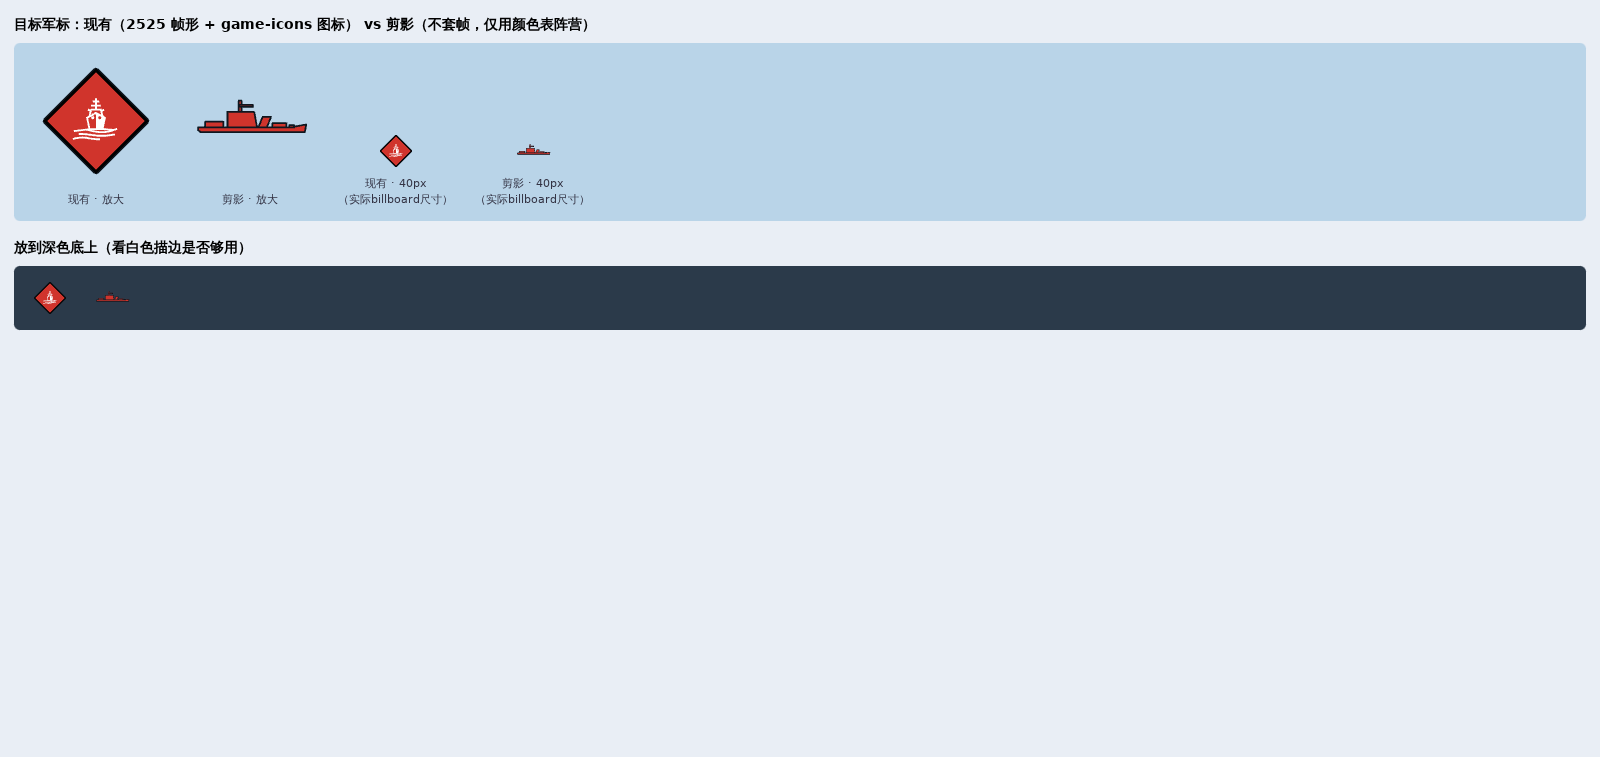
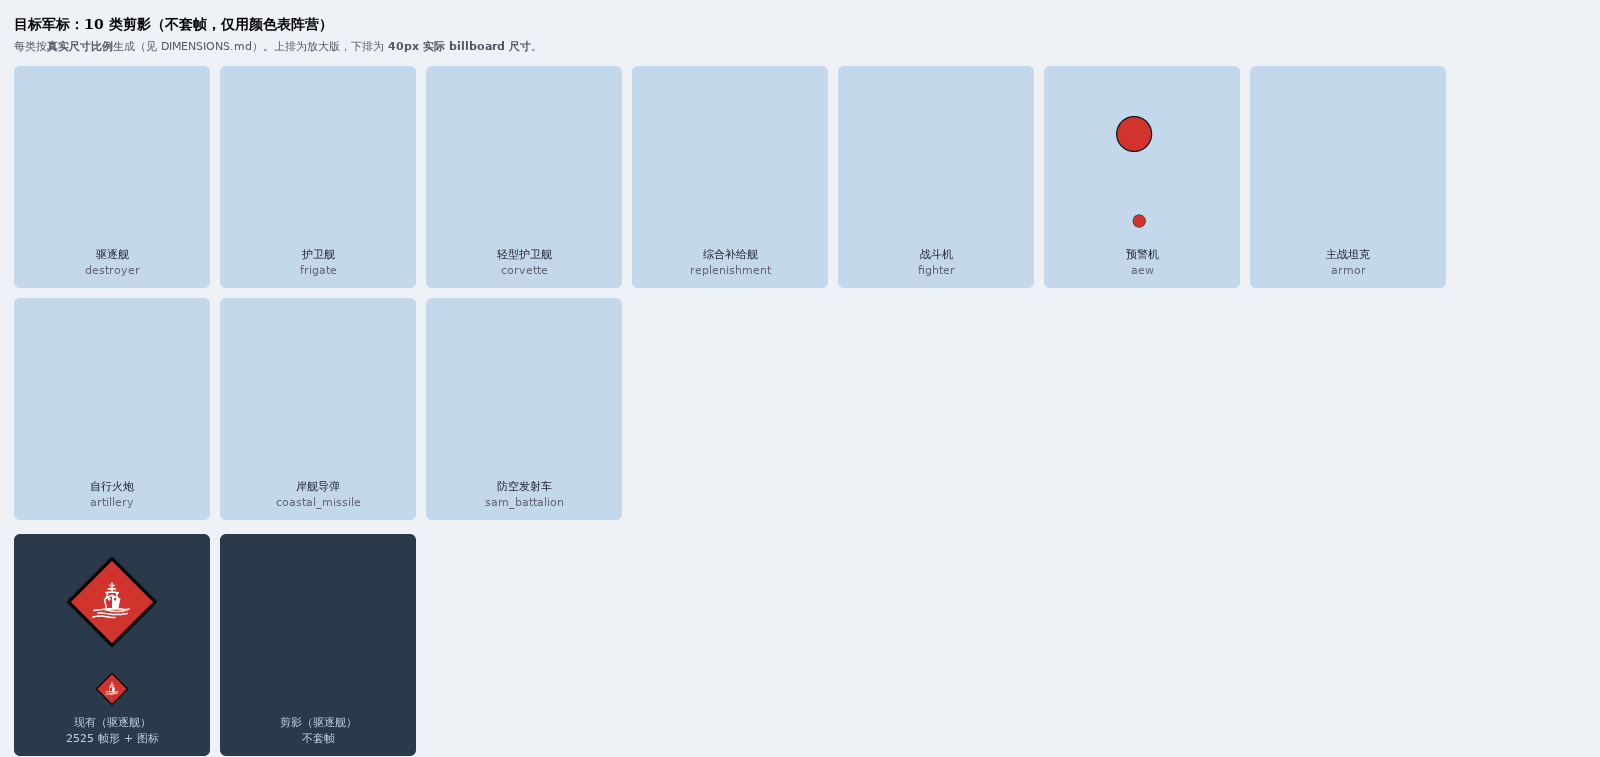
docs(situation3d): 10 类剪影的全套对比图（放大 + 40px 实际 billboard 尺寸）
## 这张图的目的

让"剪影走哪条出路"这一项**最容易被一眼定下** —— 不必逐个打开 10 个 SVG。

每类两行：上行放大、下行 **40px 实际 billboard 尺寸**（这是真正要看的那一行 ——
缩到实际尺寸还能不能认出来，才是这个方案成不成立的关键）。
右下两张深色卡是**现有驱逐舰符号**与**剪影**的直接对比，用来看"不套帧"是否真的更清楚。

## 过程中踩的两个坑（都记下来）

1. **我把 `A = []` 当成了 append**（前面几个脚本用的是 `A = L.append`）——
   HTML 根本没写出去，而截图拍的是**旧页面**，我还用那张旧图覆盖了 `preview.png`。
   发现方式：`curl | grep -c "<img"` 数到 **6**，而新页面应有 24 个。
   **教训**：截图之后要确认"拍的是新页面"，不能假设。
2. **我的自检断言算错了数**：写成 `== 22`，实际是 24（10 类 × 2 + 2 个深色卡 × 2）。
   断言**挡住了**这次部署 —— 这正是上一轮把"先 parse 后 write"改成纪律之后的收益：
   我算错的数字没能出门。

## workflow 纪律

本轮起，"生成页面/代码的脚本"一律**先校验再写盘**（`assert` + 语法检查），
且**部署后要用独立手段确认服务上确实是新内容**（`curl` 数元素、比文件大小）。

diff --git a/situation3d/web/poc/index.html b/situation3d/web/poc/index.html
@@ -1,25 +1,59 @@
 <!doctype html><html><head><meta charset="utf-8"><style>
-  body{margin:0;font:13px/1.5 system-ui,"Microsoft YaHei",sans-serif;background:#e9eef5}
-  .wrap{padding:14px}
-  h3{margin:0 0 8px;font-size:14px}
-  .row{display:flex;gap:22px;align-items:flex-end;margin-bottom:16px;
-       background:#b9d4e8;padding:12px 16px;border-radius:6px}
-  .cell{text-align:center}
-  .cell img{display:block;margin:0 auto;image-rendering:auto}
-  .cap{font-size:11px;color:#334;margin-top:5px}
-  .big img{width:132px;height:132px}
-  .real img{width:40px;height:40px}
+ body{margin:0;font:13px/1.5 system-ui,"Microsoft YaHei",sans-serif;background:#eef2f7}
+ .wrap{padding:14px}
+ h3{margin:0 0 4px;font-size:14px}
+ .sub{color:#556;font-size:11px;margin-bottom:10px}
+ .grid{display:flex;flex-wrap:wrap;gap:10px}
+ .card{background:#c3d8ea;border-radius:6px;padding:8px 10px;text-align:center;width:176px}
+ .card.dark{background:#2b3a4a;color:#dde}
+ .big{height:120px;display:flex;align-items:center;justify-content:center}
+ .big img{max-height:112px;max-width:164px}
+ .px{height:46px;display:flex;align-items:center;justify-content:center;margin-top:4px}
+ .px img{width:40px;height:40px}
+ .cap{font-size:11px;color:#223;margin-top:3px}
+ .card.dark .cap{color:#bcd}
+ .row2{display:flex;gap:10px;margin-top:14px}
 </style></head><body><div class="wrap">
-  <h3>目标军标：现有（2525 帧形 + game-icons 图标） vs 剪影（不套帧，仅用颜色表阵营）</h3>
-  <div class="row">
-    <div class="cell big"><img src="/assets/symbols/destroyer_red.svg"><div class="cap">现有 · 放大</div></div>
-    <div class="cell big"><img src="/poc/destroyer_silhouette.svg"><div class="cap">剪影 · 放大</div></div>
-    <div class="cell real"><img src="/assets/symbols/destroyer_red.svg"><div class="cap">现有 · 40px<br>（实际billboard尺寸）</div></div>
-    <div class="cell real"><img src="/poc/destroyer_silhouette.svg"><div class="cap">剪影 · 40px<br>（实际billboard尺寸）</div></div>
-  </div>
-  <h3>放到深色底上（看白色描边是否够用）</h3>
-  <div class="row" style="background:#2b3a4a">
-    <div class="cell real"><img src="/assets/symbols/destroyer_red.svg"></div>
-    <div class="cell real"><img src="/poc/destroyer_silhouette.svg"></div>
-  </div>
+ <h3>目标军标：10 类剪影（不套帧，仅用颜色表阵营）</h3>
+ <div class="sub">每类按<b>真实尺寸比例</b>生成（见 DIMENSIONS.md）。上排为放大版，下排为 <b>40px 实际 billboard 尺寸</b>。</div>
+ <div class="grid">
+  <div class="card"><div class="big"><img src="/poc/destroyer_silhouette.svg"></div>
+    <div class="px"><img src="/poc/destroyer_silhouette.svg"></div>
+    <div class="cap">驱逐舰<br><span style="color:#667">destroyer</span></div></div>
+  <div class="card"><div class="big"><img src="/poc/frigate_silhouette.svg"></div>
+    <div class="px"><img src="/poc/frigate_silhouette.svg"></div>
+    <div class="cap">护卫舰<br><span style="color:#667">frigate</span></div></div>
+  <div class="card"><div class="big"><img src="/poc/corvette_silhouette.svg"></div>
+    <div class="px"><img src="/poc/corvette_silhouette.svg"></div>
+    <div class="cap">轻型护卫舰<br><span style="color:#667">corvette</span></div></div>
+  <div class="card"><div class="big"><img src="/poc/replenishment_silhouette.svg"></div>
+    <div class="px"><img src="/poc/replenishment_silhouette.svg"></div>
+    <div class="cap">综合补给舰<br><span style="color:#667">replenishment</span></div></div>
+  <div class="card"><div class="big"><img src="/poc/fighter_silhouette.svg"></div>
+    <div class="px"><img src="/poc/fighter_silhouette.svg"></div>
+    <div class="cap">战斗机<br><span style="color:#667">fighter</span></div></div>
+  <div class="card"><div class="big"><img src="/poc/aew_silhouette.svg"></div>
+    <div class="px"><img src="/poc/aew_silhouette.svg"></div>
+    <div class="cap">预警机<br><span style="color:#667">aew</span></div></div>
+  <div class="card"><div class="big"><img src="/poc/armor_silhouette.svg"></div>
+    <div class="px"><img src="/poc/armor_silhouette.svg"></div>
+    <div class="cap">主战坦克<br><span style="color:#667">armor</span></div></div>
+  <div class="card"><div class="big"><img src="/poc/artillery_silhouette.svg"></div>
+    <div class="px"><img src="/poc/artillery_silhouette.svg"></div>
+    <div class="cap">自行火炮<br><span style="color:#667">artillery</span></div></div>
+  <div class="card"><div class="big"><img src="/poc/coastal_missile_silhouette.svg"></div>
+    <div class="px"><img src="/poc/coastal_missile_silhouette.svg"></div>
+    <div class="cap">岸舰导弹<br><span style="color:#667">coastal_missile</span></div></div>
+  <div class="card"><div class="big"><img src="/poc/sam_battalion_silhouette.svg"></div>
+    <div class="px"><img src="/poc/sam_battalion_silhouette.svg"></div>
+    <div class="cap">防空发射车<br><span style="color:#667">sam_battalion</span></div></div>
+ </div>
+ <div class="row2">
+   <div class="card dark"><div class="big"><img src="/assets/symbols/destroyer_red.svg"></div>
+     <div class="px"><img src="/assets/symbols/destroyer_red.svg"></div>
+     <div class="cap">现有（驱逐舰）<br>2525 帧形 + 图标</div></div>
+   <div class="card dark"><div class="big"><img src="/poc/destroyer_silhouette.svg"></div>
+     <div class="px"><img src="/poc/destroyer_silhouette.svg"></div>
+     <div class="cap">剪影（驱逐舰）<br>不套帧</div></div>
+ </div>
 </div></body></html>
